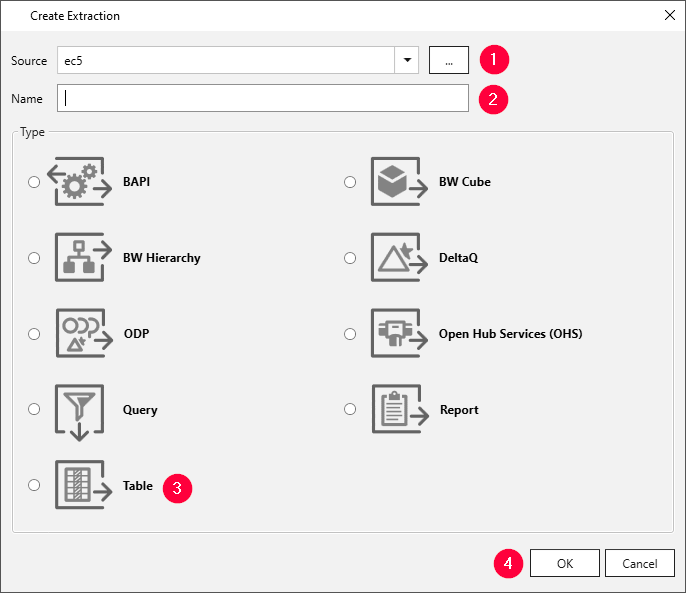
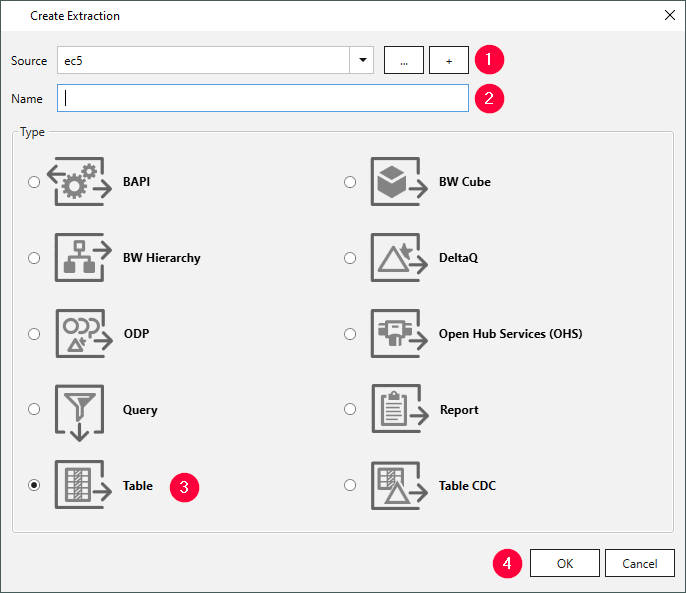
en draft

diff --git a/content/_en/xtract-universal/table-cdc/extract-table-cdc.md b/content/_en/xtract-universal/table-cdc/extract-table-cdc.md
@@ -12,44 +12,55 @@ old_url: /Xtract-Universal-EN/default.aspx?pageid=define-a-table-extraction
 ---
 The following section shows how to use the Table CDC component.
 
+![Table-CDC](/img/content/tablecdc/table_cdc.png){:class="img-responsive"}
+
 ### Look Up a Table
 
 Look up the SAP table or view you want to track.
 
 1. In the main window of the component click **[Search]** ( ![magnifying-glass](/img/content/icons/magnifying-glass.png) icon). The window “Table Lookup” opens.
-2. Enter the name of aan SAP table or view in the field **Table Name** (1). Use wildcards (*) if needed.<br>
+2. In the field **Table Name** (1) enter the name of the SAP table or view you want to track. Use wildcards (*) if needed.<br>
 ![Look-Up-Report](/img/content/table/table_look-up.png){:class="img-responsive"}
-3. Click **[Search]** ( ![magnifying-glass](/img/content/icons/magnifying-glass.png) icon) (2) and select the table of your choice from the displayed list (3).
-4. Click **[OK]** (4) to confirm.
+3. Click **[Search]** ( ![magnifying-glass](/img/content/icons/magnifying-glass.png) icon) (2).
+4. Select the desired table (3) and click **[OK]** (4).
 
-All relevant metadata information of the table are displayed in the subsection Fields.
 
-Bild
+### Set Up CDC
 
-### 
-
-1. Select the columns you want to extract.
-2. Optional: If you want to extract the whole table when first running the extraction, activate **[Extract table on first run**.
-**Tipp:** To extract the original table, you can also use the [Table component](../table).
-3. Click **[Load Preview]** to load 100 records for the preview.<br>
+1. Select the columns you want to extract.<br> 
+![Table-CDC-Setup](/img/content/tablecdc/table-cdc-kna1.png){:class="img-responsive"}
+2. Optional: If you want to extract the whole table when first running the extraction, activate **[Extract table on first run]**. If **[Extract table on first run]** is deactivated, the extracted table is empty.
+3. Click **[Load Preview]** to load 1000 records for the preview.<br>
 The column IUUC_OPERAT_FLAG indicates if a row was inserted (I), updated (U) or deleted (D).
-4. Optional: 
-5. Click **[OK]** to confirm your settings.
+4. Click **[OK]** to confirm your settings.
+5. Run the extraction to create a log table in SAP that records any changes made to a selected table or view, see [Testrun the Extraction](#testrun-the-extraction). <br>
 
 {: .box-note }
 **Note:** Before deleting an extraction, click **[Delete CDC resources]** to delete the log table and all associated triggers from your SAP system.
 
+<!---
+
+#### Append Data to an Existing File
+To append the extracted data to an existing file...
+Only destinations with the "Existing File" subsection???
+
+Note that data that was deleted is not removed from the existing table. 
+
+-->
+
 ### Testrun the Extraction
 
-1. In the main window of the Designer, click **[Run]**. The window "Run Extraction" opens.
+Running the extraction for the first time creates a log table in SAP that records any changes made to a selected table or view.
+
+1. In the main window of the Designer, click **[Run]**. The window "Run Extraction" opens.<br> Bild
 2. In the runtime parameters section, select the destination where you want to write data to.
 3. Click **[Run]**.
-4. If the extraction was successfull, the status in the *General Info* section of the window changes to "finished successfully".<br>
-If an error occured, you can find the source of the error in the *Log* section of the window.
+4. If the extraction is successfull, the status in the *General Info* section of the window changes to "finished successfully".<br>
+If an error occured, you can find information on the error in the *Log* section of the window.
 
+
+<!---
 {: .box-tip }
-**Tip:** If you set the extraction to extract the whole table on your first run, follow steps 1 to 4, then change data in SAP and repeat the steps to check the delta extraction.
-
-{: .box-note }
-**Note:** The Table CDC component adds the column IUUC_OPERAT_FLAG to the extracted table or view. IUUC_OPERAT_FLAG indicates if a row was inserted (I), updated (U) or deleted (D).
+**Tip:** If you set the extraction to extract the whole table on your first run, follow steps 1 to 4, then change data in SAP and repeat the steps to check the delta extraction. 
+-->
 

diff --git a/content/_de/xtract-universal/table-cdc/extraktion-anlegen.md b/content/_de/xtract-universal/table-cdc/extraktion-anlegen.md
@@ -11,7 +11,44 @@ lang: de_DE
 old_url: /Xtract-Universal-DE/default.aspx?pageid=eine-table-extraktion-definieren
 ---
 Der folgende Abschnitt beschreibt die Anwendung der Table Komponente. 
-{% include _content/de/table/extraktion-anlegen.md  %}
 
-Wenn Sie nur bestimmte Tabellendaten extrahieren möchten, können Sie eine [WHERE-Bedingung](./where-bedingung) verwenden.
+### Eine Tabelle Finden
+
+Look up the SAP table or view you want to track.
+
+1. Innerhalb des Hauptfensters der Komponente, klicken Sie auf  **[Search]** ( ![magnifying-glass](/img/content/icons/magnifying-glass.png) icon). Das Fenster “Table Lookup” öffnet sich.
+2. Geben Sie in das Feld **Table name** (1) den Namen der zu extrahierenden SAP Tabelle oder Ansicht ein. Verwenden Sie Wildcards (*), falls nötig.<br>
+![Look-Up-Report](/img/content/table/table_look-up.png){:class="img-responsive"}
+3. Klicken Sie auf **[Search]** ( ![magnifying-glass](/img/content/icons/magnifying-glass.png) icon) (2). Die Suchergebnisse werden im Vorschaufenster angezeigt.
+4. Wählen Sie die gewünschte Tabelle (3) aus und klicken Sie auf **[OK]** (4).
+
+
+### CDC Einrichten
+
+1. Select the columns you want to extract.<br> Bild
+2. Optional: If you want to extract the whole table when first running the extraction, activate **[Extract table on first run]**. <br>
+**Tipp:** You can also use the [Table component](../table) to extract the original table.
+3. Click **[Load Preview]** to load 100 records for the preview.<br>
+The column IUUC_OPERAT_FLAG indicates if a row was inserted (I), updated (U) or deleted (D).
+4. Click **[OK]** to confirm your settings.
+
+{: .box-note }
+**Note:** Before deleting an extraction, click **[Delete CDC resources]** to delete the log table and all associated triggers from your SAP system.
+
+#### Append Data to an Existing File
+To append the extracted data to an existing file...
+Only destinations with the "Existing File" subsection???
+
+What happens if an extraction failed? Is the delta information lost?
+
+### Testrun the Extraction
+
+1. In the main window of the Designer, click **[Run]**. The window "Run Extraction" opens.<br> Bild
+2. In the runtime parameters section, select the destination where you want to write data to.
+3. Click **[Run]**.
+4. If the extraction was successfull, the status in the *General Info* section of the window changes to "finished successfully".<br>
+If an error occured, you can find information on the error in the *Log* section of the window.
+
+{: .box-tip }
+**Tip:** If you set the extraction to extract the whole table on your first run, follow steps 1 to 4, then change data in SAP and repeat the steps to check the delta extraction.
 

diff --git a/content/_en/xtract-universal/table-cdc.md b/content/_en/xtract-universal/table-cdc.md
@@ -27,21 +27,30 @@ For more information, see the knowledge base article on [SAP User Rights: Table]
 
 ### About Table CDC
 
-Running the extration for the first time, creates a log table in SAP that records any changes made to the original table or view.
-The name of the log table is...
-The content of the log table is cleared after every run of the extraction (?)
+Change Data Capture (CDC) is a method to keep track of data changes such as insert, update and delete in SAP tables.
+The Table CDC component creates a log table in SAP that records any changes made to a selected table or view. 
+The content of the log table is cleared after every successful run of the extraction. Data that was not extracted is not cleared.
+
+Note that clusters and pool tables are not supported by the Table CDC component. 
 
 ### Requirements
 
+The installation of the custom function modules Z_THEO_DELETE_LOG_ENTRIES and Z_THEO_READ_TABLE is mandatory. The SAP transport requests for the installation is provided in the installation directory: <br>
+`C:\ProgramFiles\[XtractProduct]\ABAP\`.
+
+
+<!---
+- Access to the SAP authority object `S_TABU_NAM ACTVT=02` must be granted.
 - SAP version x.xx or higher.
+- The SAP user must have the right to create SAP Tables, see [SAP Connection - Authentication](./getting-started/sap-connection#authentication).
 - Access to the designated authority objects (RFC) in SAP, see [SAP User Rights: Table](https://kb.theobald-software.com/sap/authority-objects-sap-user-rights#table) must be granted.
-- The user that connects to SAP must have the right to create SAP Tables, see [SAP Connection - Authentication](./getting-started/sap-connection#authentication).
+-->
+
 
 ### How to use the Table CDC component
 {% include _content/en/xu-specific/define-extraction.md %}
 
-More information on working with the Table CDC component is provided in the following sections.
-
 ---
+More information on working with the Table CDC component is provided in the following sections.
 
 {% include _content/table-of-contents.html parent=page.childidentifier collection=site.en %}
